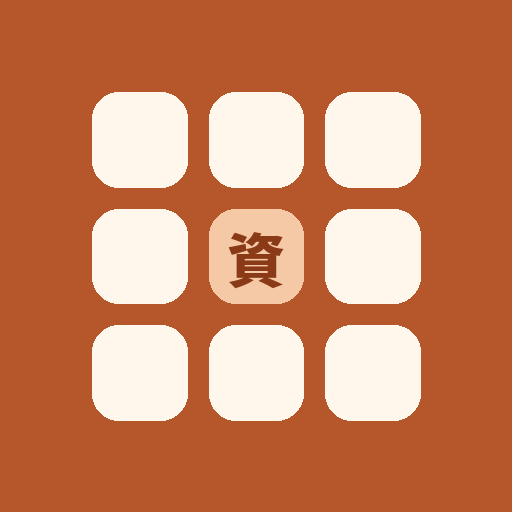
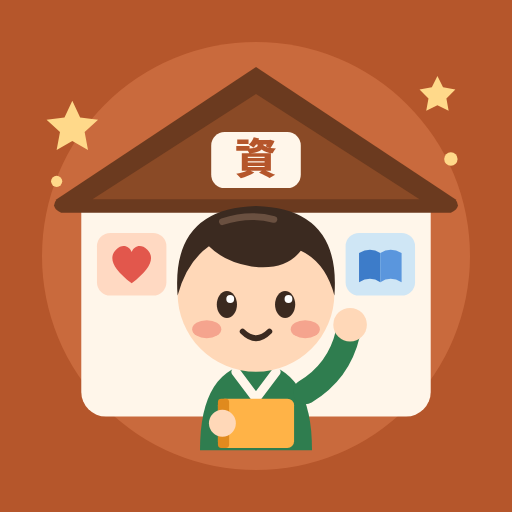
換上 Q 版資源教室 App 圖示
Claude-Session: https://claude.ai/code/session_01GLxa4W7GB8Fdeq4kgCC7y4

diff --git a/index.html b/index.html
@@ -7,6 +7,7 @@
 <meta name="theme-color" content="#b5562b">
 <meta name="description" content="弘光科大資源教室各網站的一頁式入口">
 <link rel="manifest" href="manifest.webmanifest">
+<link rel="icon" type="image/svg+xml" href="icon.svg">
 <link rel="icon" type="image/png" sizes="192x192" href="icon-192.png">
 <link rel="apple-touch-icon" href="apple-touch-icon.png">
 <meta name="apple-mobile-web-app-capable" content="yes">

diff --git a/sw.js b/sw.js
@@ -1,4 +1,4 @@
-const CACHE = 'links-v1';
+const CACHE = 'links-v2';
 const FILES = ['./', 'index.html', 'manifest.webmanifest', 'icon-192.png', 'icon-512.png', 'apple-touch-icon.png'];
 self.addEventListener('install', e => {
   e.waitUntil(caches.open(CACHE).then(c => c.addAll(FILES)).then(() => self.skipWaiting()));
